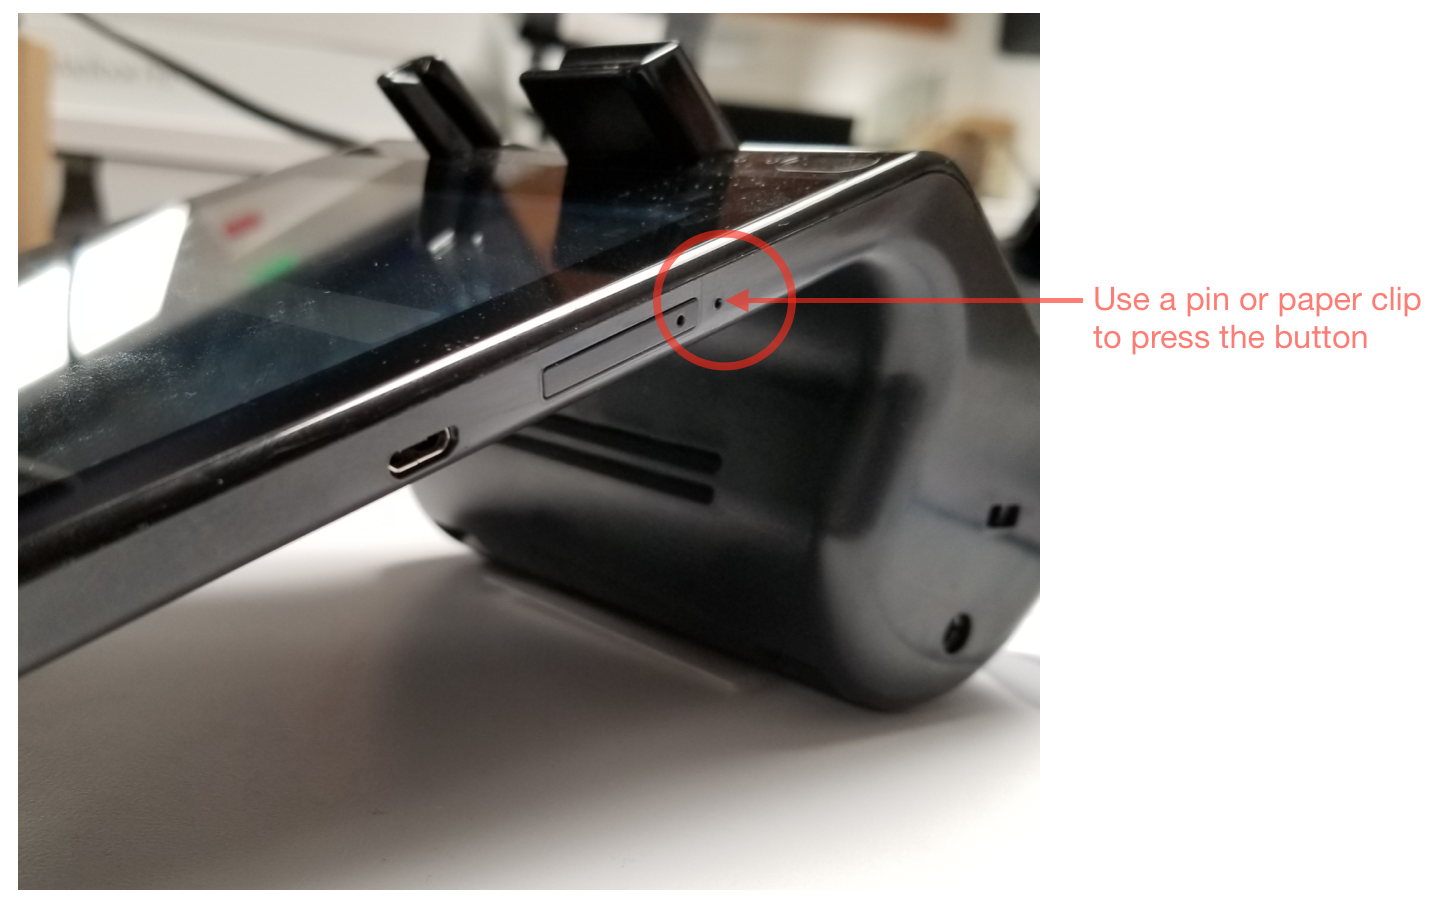
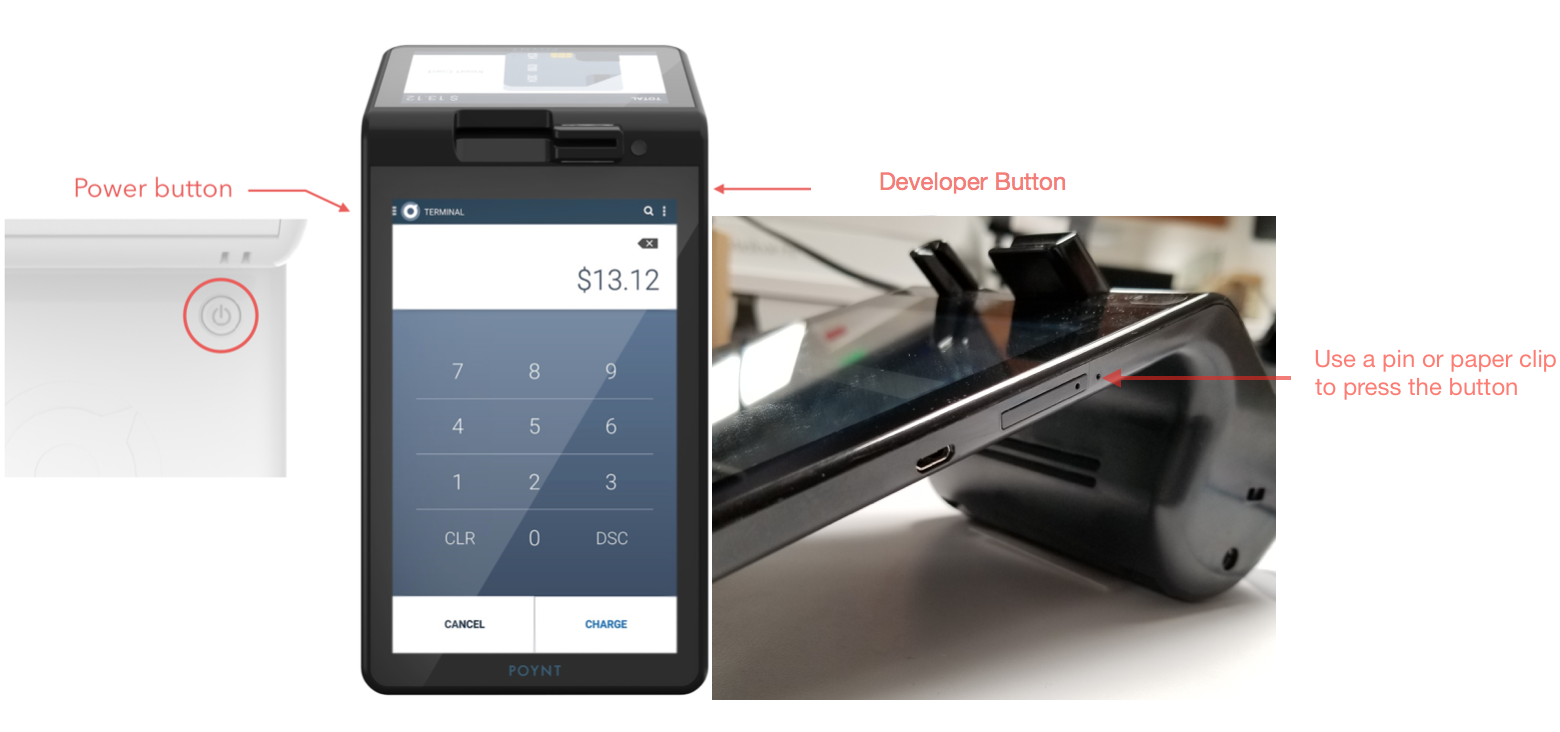
layout changes and added smart terminal v2 unlocking instrcutions with image

diff --git a/_posts/2015-07-27-developer-mode.md b/_posts/2015-07-27-developer-mode.md
@@ -16,22 +16,8 @@ This puts the device into a state that allows you to install your development AP
 
 1. Android SDK with android-api 19 (Kitkat) installed on your development machine
 2. Poynt Developer Unit
-
-## Installation
-1. Put your device into fastboot mode by holding the **power** and **volume up** button while the device is powered off. For more information about what fastboot does, see: [http://elinux.org/Android_Fastboot](http://elinux.org/Android_Fastboot)
-	<div>
-	<img src="{{site.url}}/developer/assets/fastboot0.png" alt="fastboot0" width="600">
-	</div>
-	Newer model of Poynt Smart Terminal does not have volume keys, use a pin or a paper clip to press and hold the button instead
-	<div>
-	<img src="{{site.url}}/developer/assets/fastboot-p61b.png" alt="fastboot-p61b" width="400">
-	</div>
-
-2. Select **Fastboot Protocol** from the fastboot menu (press **volume down** button then **power** button). Screen will flicker and return to fastboot menu.
-	<div>
-	<img src="{{site.url}}/developer/assets/fastboot_screen1.jpg" alt="fastbootscreen1" width="300">
-	</div>
-3. Make sure you have the <a href="https://developer.android.com/sdk/installing/index.html?pkg=tools">Android SDK tools</a> installed on your computer. You're going to need the `fastboot` command. Ensure your device is properly connected via a micro USB cable.
+<p>&nbsp;</p>
+## Setup Device Drivers
 
 ### For Windows Users
 
@@ -118,24 +104,47 @@ Add line:
 
 to _/etc/udev/rules.d/51-android.rules_{:.italic}
 
-## Continue Installation
-
-1. Run the command to initiate the developer mode process on Poynt Smart Terminal: `fastboot oem developer` (If you are using Poynt 5 please refer <a href="#unlocking-p5">here</a>)
+## Unlocking Device
+### Poynt Smart Terminal
+1. Put your device into fastboot mode by holding the **power** and **volume up** button while the device is powered off. For more information about what fastboot does, see: [http://elinux.org/Android_Fastboot](http://elinux.org/Android_Fastboot)
+	<div>
+	<img src="{{site.url}}/developer/assets/fastboot0.png" alt="fastboot0" width="600">
+	</div>
+2. Select **Fastboot Protocol** from the fastboot menu (press **volume down** button then **power** button). Screen will flicker and return to fastboot menu.
+	<div>
+	<img src="{{site.url}}/developer/assets/fastboot_screen1.jpg" alt="fastbootscreen1" width="300">
+	</div>
+3. Make sure you have the <a href="https://developer.android.com/sdk/installing/index.html?pkg=tools">Android SDK tools</a> installed on your computer. You're going to need the `fastboot` command. Ensure your device is properly connected via a micro USB cable.
+4. Run the command to initiate the developer mode process on Poynt Smart Terminal: `fastboot oem developer` (If you are using Poynt 5 please refer <a href="#unlocking-p5">here</a>)
 	<div>
 	<img src="{{site.url}}/developer/assets/fastboot_developer_mode.png" alt="fastbootscreen1" width="600">
 	</div>
+5. Read the instructions on the Poynt Terminal, press the volume down button to move selection to `Enter developer mode` and Press the Power button to select. At this point your device will clear its cache and the device state in the bootloader screen should show `Unlocked` or `Developer mode`.
+6. Reboot device
+  <div>
+  <img src="{{site.url}}/developer/assets/terminal_fastboot2.png" alt="fastboot2" width="600">
+  </div>
 
-2. Read the instructions on the Poynt Terminal, press the volume down button to move selection to `Enter developer mode` and Press the Power button to select. At this point your device will clear its cache and the device state in the bootloader screen should show `Unlocked` or `Developer mode`.
-
-3. Reboot your device.
-	<div>
-	<img src="{{site.url}}/developer/assets/terminal_fastboot2.png" alt="fastboot2" width="600">
-	</div>
-
-4. <a href="/developer/setup/activate-poynt-terminal.html">Activate your Poynt terminal</a>. Note: If you've previously activated your device, you can reuse your test MID and TIDs to reactivate.
 <p>&nbsp;</p>
+### <a name="unlocking-terminal-v2"></a> Poynt Smart Terminal v2
 
-## <a name="unlocking-p5"></a>Unlocking Poynt5
+1. Put your device into fastboot mode by holding the **power** and **developer** button while the device is powered off. For more information about what fastboot does, see: [http://elinux.org/Android_Fastboot](http://elinux.org/Android_Fastboot)
+	<div>
+	<img src="{{site.url}}/developer/assets/fastboot-p61b.png" alt="fastboot-p61b" width="600">
+	</div>
+	Note: A pin or paper clip is needed to access the **developer button**
+2. Select **Fastboot Protocol** from the fastboot menu (press **developer** button to navigate and then **power** button to select). The device enters fastboot mode with a beep sound (takes 5-10 seconds)
+	
+3. Make sure you have the <a href="https://developer.android.com/sdk/installing/index.html?pkg=tools">Android SDK tools</a> installed on your computer. You're going to need the `fastboot` command. Ensure your device is properly connected via a micro USB cable.
+4. Run the command to initiate the developer mode process on Poynt Smart Terminal: `fastboot flashing unlock` (If you are using Poynt 5 please refer <a href="#unlocking-p5">here</a>)
+5. Read the instructions on the Poynt Terminal, press the **developer** button to unlock the device
+6. Reboot device
+  <div>
+  <img src="{{site.url}}/developer/assets/terminal_fastboot2.png" alt="fastboot2" width="600">
+  </div>
+
+
+### <a name="unlocking-p5"></a>Poynt5
 
 1. shutdown the device
 2. start by holding barcode button (left side key) + pull down power switch at the same time until you see the bootloader menu.
@@ -144,6 +153,7 @@ to _/etc/udev/rules.d/51-android.rules_{:.italic}
 5. select OK, with Barcode button (button, on the left side of the terminal)
 6. After unlock process finished execute `fastboot reboot`
 7. If reboot does not get initiated just use the power switch to initiate reboot
-
+#### Terminal Activation
+<a href="/developer/setup/activate-poynt-terminal.html">Activate your Poynt terminal</a>. Note: If you've previously activated your device, you can reuse your test MID and TIDs to reactivate.
 <!-- feedback widget -->
[1 lines of base64/hex data omitted]
